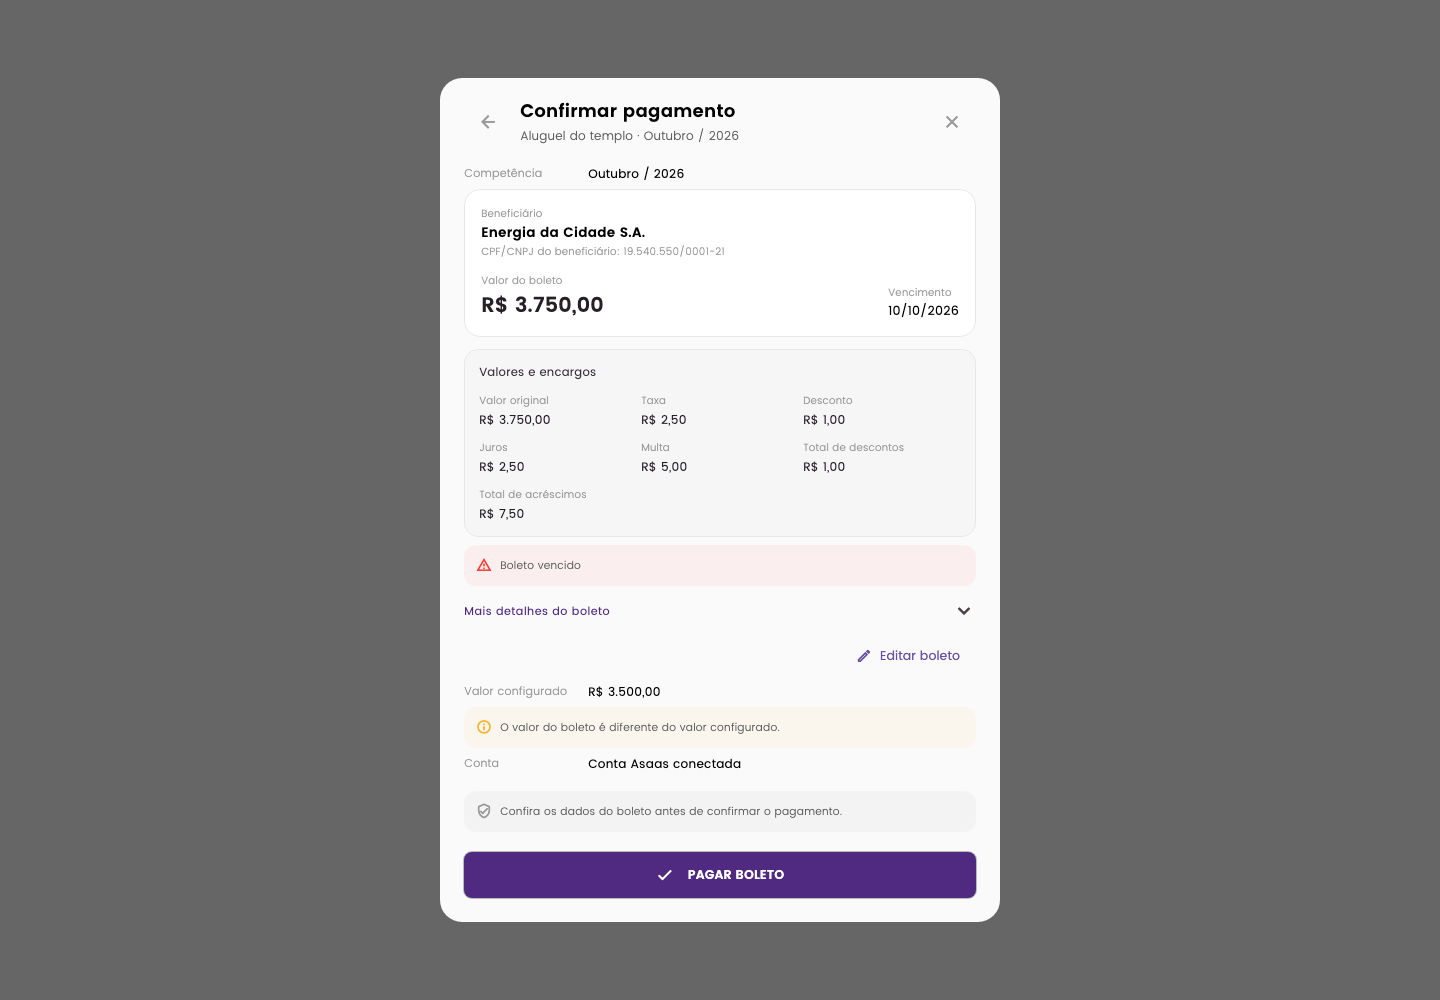
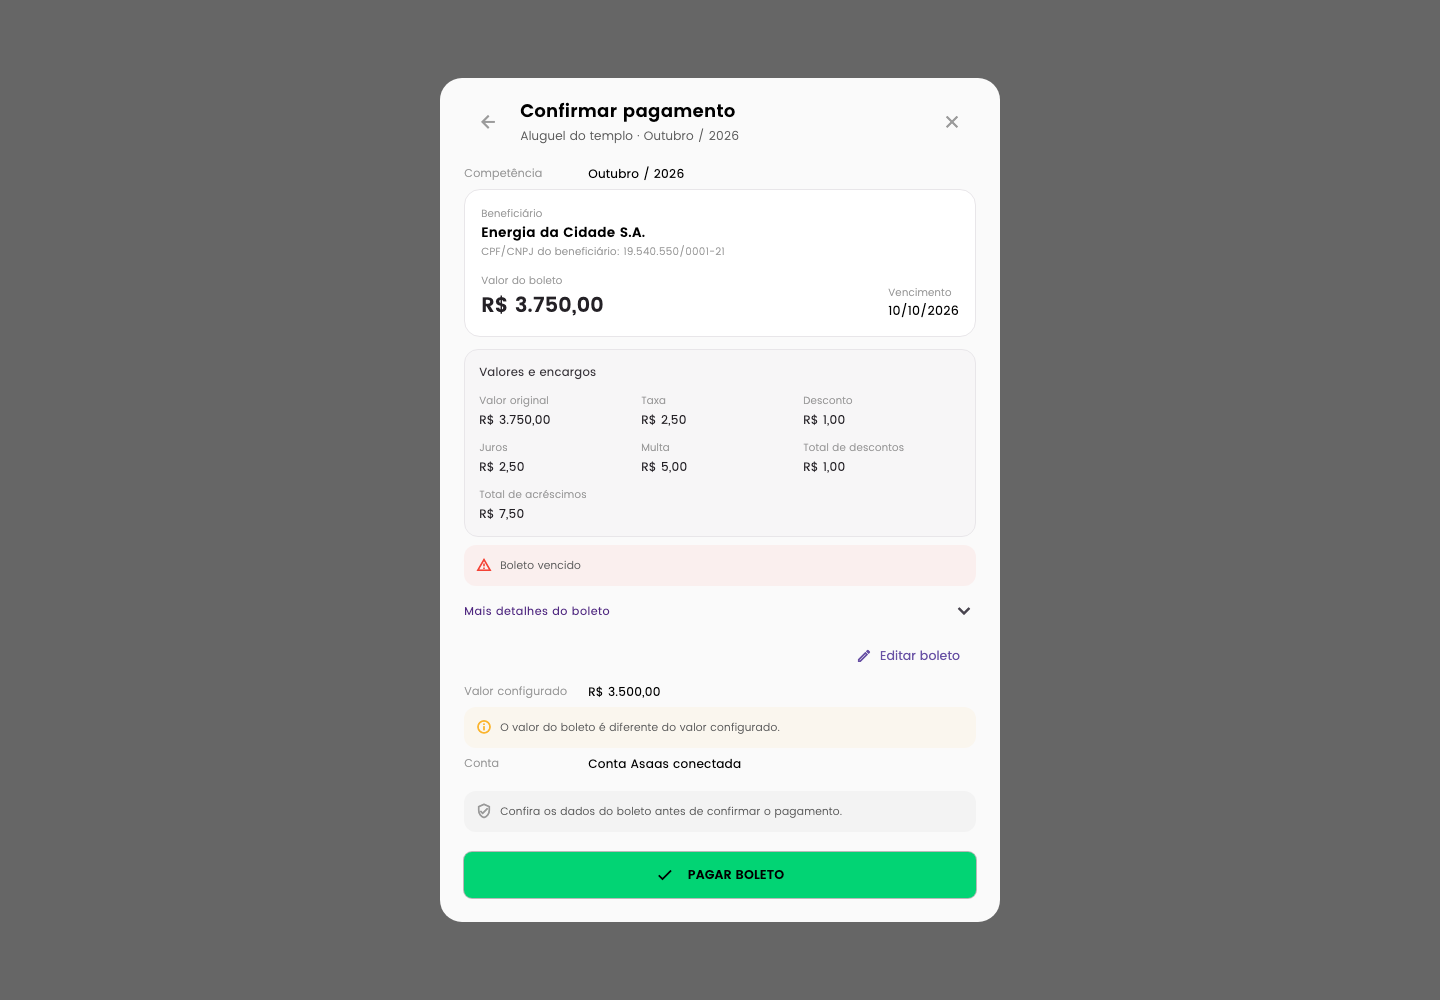
style(recurring-payments): keep primary actions green

Changed region(s): [[0.3125, 0.837, 0.6875, 0.899]]

diff --git a/lib/features/erp/recurring_payments/pages/execution/widgets/recurring_payment_boleto_line_step.dart b/lib/features/erp/recurring_payments/pages/execution/widgets/recurring_payment_boleto_line_step.dart
@@ -94,8 +94,8 @@ class RecurringPaymentBoletoLineStep extends StatelessWidget {
                       RecurringPaymentBillSimulationError.unavailable
                   ? l10n.recurringPaymentsExecution_failed_retry
                   : l10n.recurringPaymentsExecution_boleto_validate_action,
-          backgroundColor: AppColors.purple,
-          textColor: Colors.white,
+          backgroundColor: AppColors.green,
+          textColor: Colors.black,
           icon: Icons.arrow_forward,
           onPressed: !hasValue || state.isSimulatingBill ? null : onValidate,
         ),

diff --git a/lib/features/erp/recurring_payments/pages/execution/widgets/recurring_payment_confirmation_step.dart b/lib/features/erp/recurring_payments/pages/execution/widgets/recurring_payment_confirmation_step.dart
@@ -122,8 +122,8 @@ class RecurringPaymentConfirmationStep extends StatelessWidget {
               isPix
                   ? l10n.recurringPaymentsExecution_pix_confirm_action
                   : l10n.recurringPaymentsExecution_boleto_pay_action,
-          backgroundColor: AppColors.purple,
-          textColor: Colors.white,
+          backgroundColor: AppColors.green,
+          textColor: Colors.black,
           icon: Icons.check,
           onPressed: !state.isComplete || state.isLoading ? null : onConfirm,
         ),

diff --git a/lib/features/erp/recurring_payments/pages/execution/widgets/recurring_payment_amount_method_step.dart b/lib/features/erp/recurring_payments/pages/execution/widgets/recurring_payment_amount_method_step.dart
@@ -95,8 +95,8 @@ class RecurringPaymentAmountMethodStep extends StatelessWidget {
         const SizedBox(height: 20),
         CustomButton(
           text: l10n.recurringPaymentsExecution_confirm_action,
-          backgroundColor: AppColors.purple,
-          textColor: Colors.white,
+          backgroundColor: AppColors.green,
+          textColor: Colors.black,
           icon: Icons.arrow_forward,
           onPressed: state.isAmountAndMethodComplete ? onContinue : null,
         ),

diff --git a/lib/features/erp/recurring_payments/pages/execution/widgets/recurring_payment_pix_key_step.dart b/lib/features/erp/recurring_payments/pages/execution/widgets/recurring_payment_pix_key_step.dart
@@ -59,8 +59,8 @@ class RecurringPaymentPixKeyStep extends StatelessWidget {
         const SizedBox(height: 20),
         CustomButton(
           text: l10n.recurringPaymentsExecution_confirm_action,
-          backgroundColor: AppColors.purple,
-          textColor: Colors.white,
+          backgroundColor: AppColors.green,
+          textColor: Colors.black,
           icon: Icons.arrow_forward,
           onPressed:
               state.pixKey.trim().isEmpty || state.pixKeyType == null

diff --git a/lib/features/erp/recurring_payments/pages/execution/widgets/recurring_payment_manual_registration_step.dart b/lib/features/erp/recurring_payments/pages/execution/widgets/recurring_payment_manual_registration_step.dart
@@ -164,8 +164,8 @@ class _RecurringPaymentManualRegistrationStepState
         const SizedBox(height: 20),
         CustomButton(
           text: l10n.recurringPaymentsExecution_manual_submit,
-          backgroundColor: AppColors.purple,
-          textColor: Colors.white,
+          backgroundColor: AppColors.green,
+          textColor: Colors.black,
           icon: Icons.check,
           onPressed:
               state.isLoading || !_isComplete
